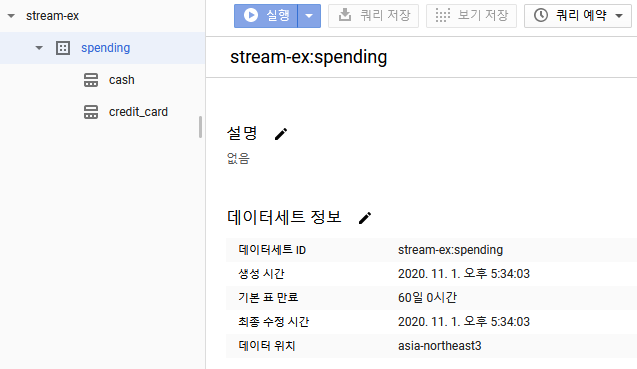
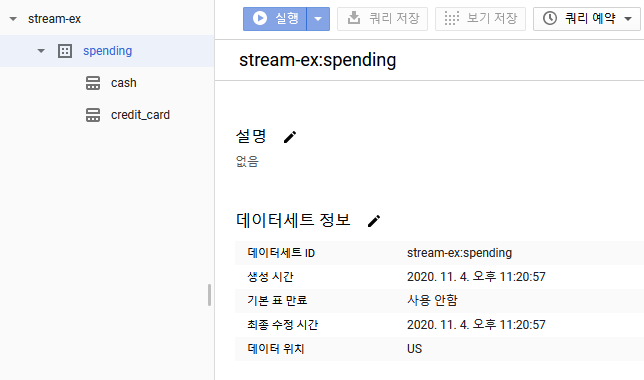
gcp_stream_processing

diff --git a/.resources/gcp_stream_processing/spending.js b/.resources/gcp_stream_processing/spending.js
@@ -1,17 +1,83 @@
-const http = require('http');
+// Copyright 2016 Google LLC
+//
+// Licensed under the Apache License, Version 2.0 (the "License");
+// you may not use this file except in compliance with the License.
+// You may obtain a copy of the License at
+//
+//      http://www.apache.org/licenses/LICENSE-2.0
+//
+// Unless required by applicable law or agreed to in writing, software
+// distributed under the License is distributed on an "AS IS" BASIS,
+// WITHOUT WARRANTIES OR CONDITIONS OF ANY KIND, either express or implied.
+// See the License for the specific language governing permissions and
+// limitations under the License.
 
-const hostname = '127.0.0.1';
-const port = 8080;
+'use strict';
 
-const server = http.createServer((req, res) => {
-  res.statusCode = 200;
-  res.setHeader('Content-Type', 'text/plain');
-  var message = '{"Hello": "World"}';
-  var spending = JSON.parse(message);
-  spending['server_time'] = Math.floor(new Date().getTime());
-  res.end(JSON.stringify(spending));
-});
+// [START functions_pubsub_publish]
+const {PubSub} = require('@google-cloud/pubsub');
 
-server.listen(port, hostname, () => {
-  console.log(`Server running at http://${hostname}:${port}/`);
-});
+// Instantiates a client
+const pubsub = new PubSub();
+
+/**
+ * Publishes a message to a Cloud Pub/Sub Topic.
+ *
+ * @example
+ * gcloud functions call publish --data '{"topic":"[YOUR_TOPIC_NAME]","message":"Hello, world!"}'
+ *
+ *   - Replace `[YOUR_TOPIC_NAME]` with your Cloud Pub/Sub topic name.
+ *
+ * @param {object} req Cloud Function request context.
+ * @param {object} req.body The request body.
+ * @param {string} req.body.topic Topic name on which to publish.
+ * @param {string} req.body.message Message to publish.
+ * @param {object} res Cloud Function response context.
+ */
+exports.publish = async (req, res) => {
+  if (!req.body.message) {  
+    res
+      .status(400)
+      .send(
+        'Missing parameter(s); include "topic" and "message" properties in your request.'
+      );
+    return;
+  }
+
+  console.log(`Publishing message to topic projects/stream-ex/topics/spending`);
+
+  // References an existing topic
+  const topic = pubsub.topic('projects/stream-ex/topics/spending');
+
+  const messageObject = {
+    data: {
+      message: req.body.message,
+    },
+  };
+  const messageBuffer = Buffer.from(JSON.stringify(messageObject), 'utf8');
+
+  // Publishes a message
+  try {
+    await topic.publish(messageBuffer);
+    res.status(200).send('Message published.');
+  } catch (err) {
+    console.error(err);
+    res.status(500).send(err);
+    return Promise.reject(err);
+  }
+};
+// [END functions_pubsub_publish]
+
+// [START functions_pubsub_subscribe]
+/**
+ * Triggered from a message on a Cloud Pub/Sub topic.
+ *
+ * @param {object} pubsubMessage The Cloud Pub/Sub Message object.
+ * @param {string} pubsubMessage.data The "data" property of the Cloud Pub/Sub Message.
+ */
+exports.subscribe = pubsubMessage => {
+  // Print out the data from Pub/Sub, to prove that it worked
+  console.log(Buffer.from(pubsubMessage.data, 'base64').toString());
+};
+// [END functions_pubsub_subscribe]
+

diff --git a/flink.md b/flink.md
@@ -127,7 +127,7 @@ Pubsub 주제 생성
 이제 pubsub에 데이터를 부어넣을 cloud function을 만들자. 함수만들기 설정은 다음과 같이했다.
 
 - `함수이름` spending-ingest
-- `리전` asia-northeast3 (서울)
+- `리전` us-central1
 - `인증되지 않은 호출 허용`
 - `할당 메모리` 256MiB
 - `제한시간` 10초
@@ -151,7 +151,9 @@ exports.helloWorld = (req, res) => {
 };
 ```
 
-Inline editor에서 직접 코드를 작성할까 생각했지만 cloud build api가 따로 존재하는 걸 보면 이거 배포할때마다 과금당할 듯한 느낌이 든다. Pubsub 보내는 것을 제외하고는 오프라인에서 작성하자.
+Inline editor에서 직접 코드를 작성할까 생각했지만 cloud build api가 따로 존재하는 걸 보면 이거 배포할때마다 과금당할 듯한 느낌이 든다. Pubsub 보내는 것을 제외하고는 오프라인에서 작성하자. Pubsub 으로 publishing는 코드는 아래 문서를 작성하자.
+
+[메시지를 pubsub 주제에 게시](https://cloud.google.com/pubsub/docs/publisher?hl=ko#publishing_messages)
 
 ```js
 const http = require('http');
